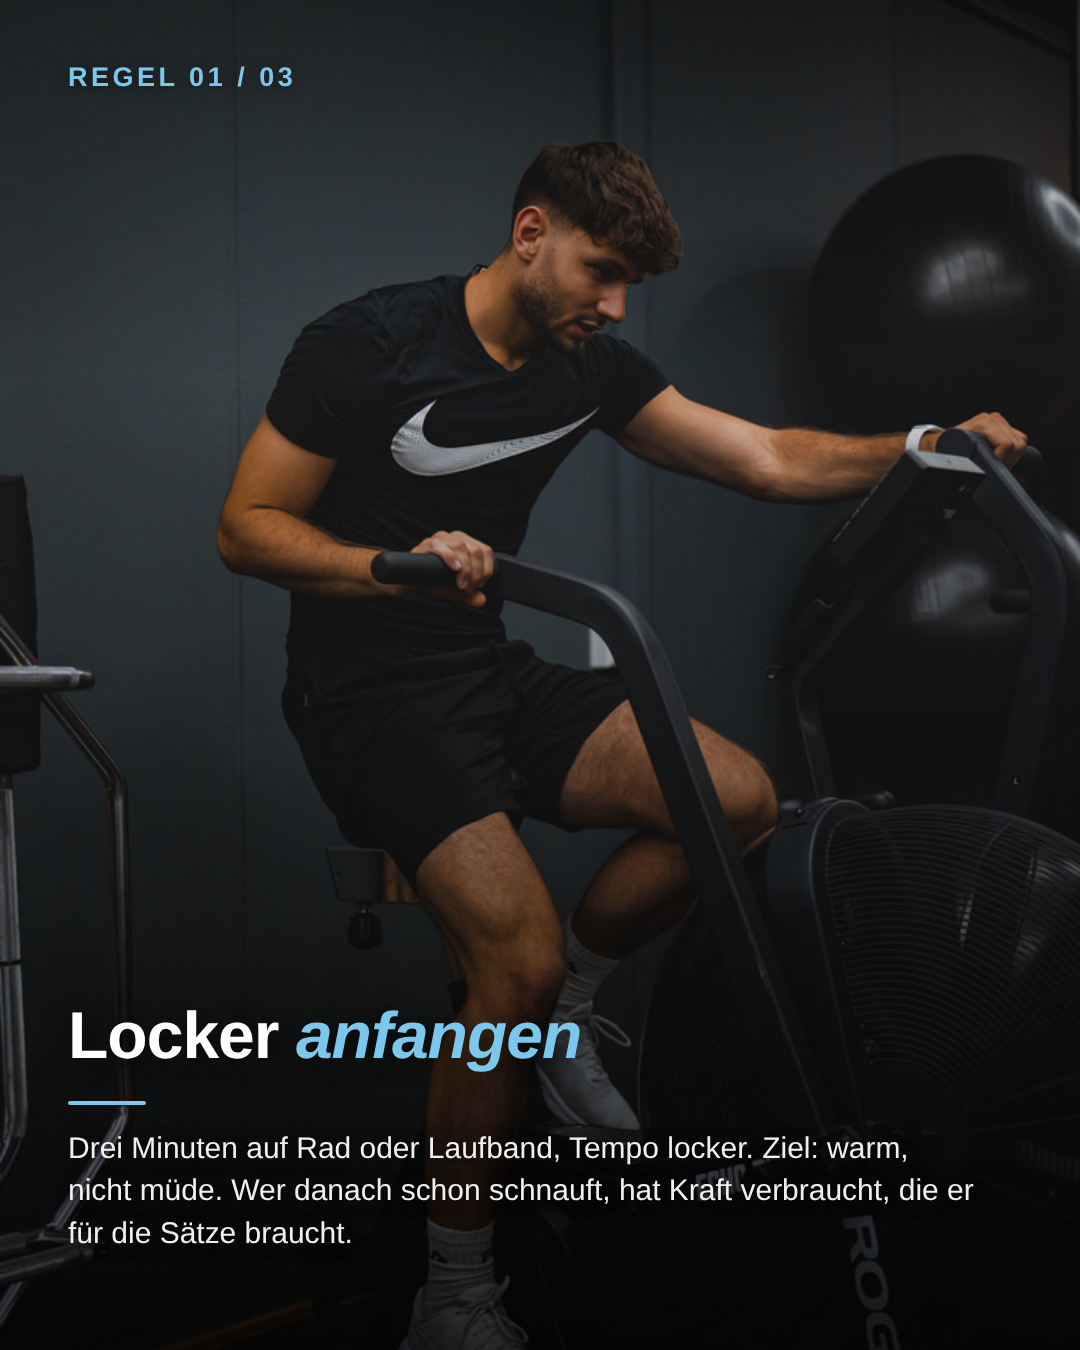
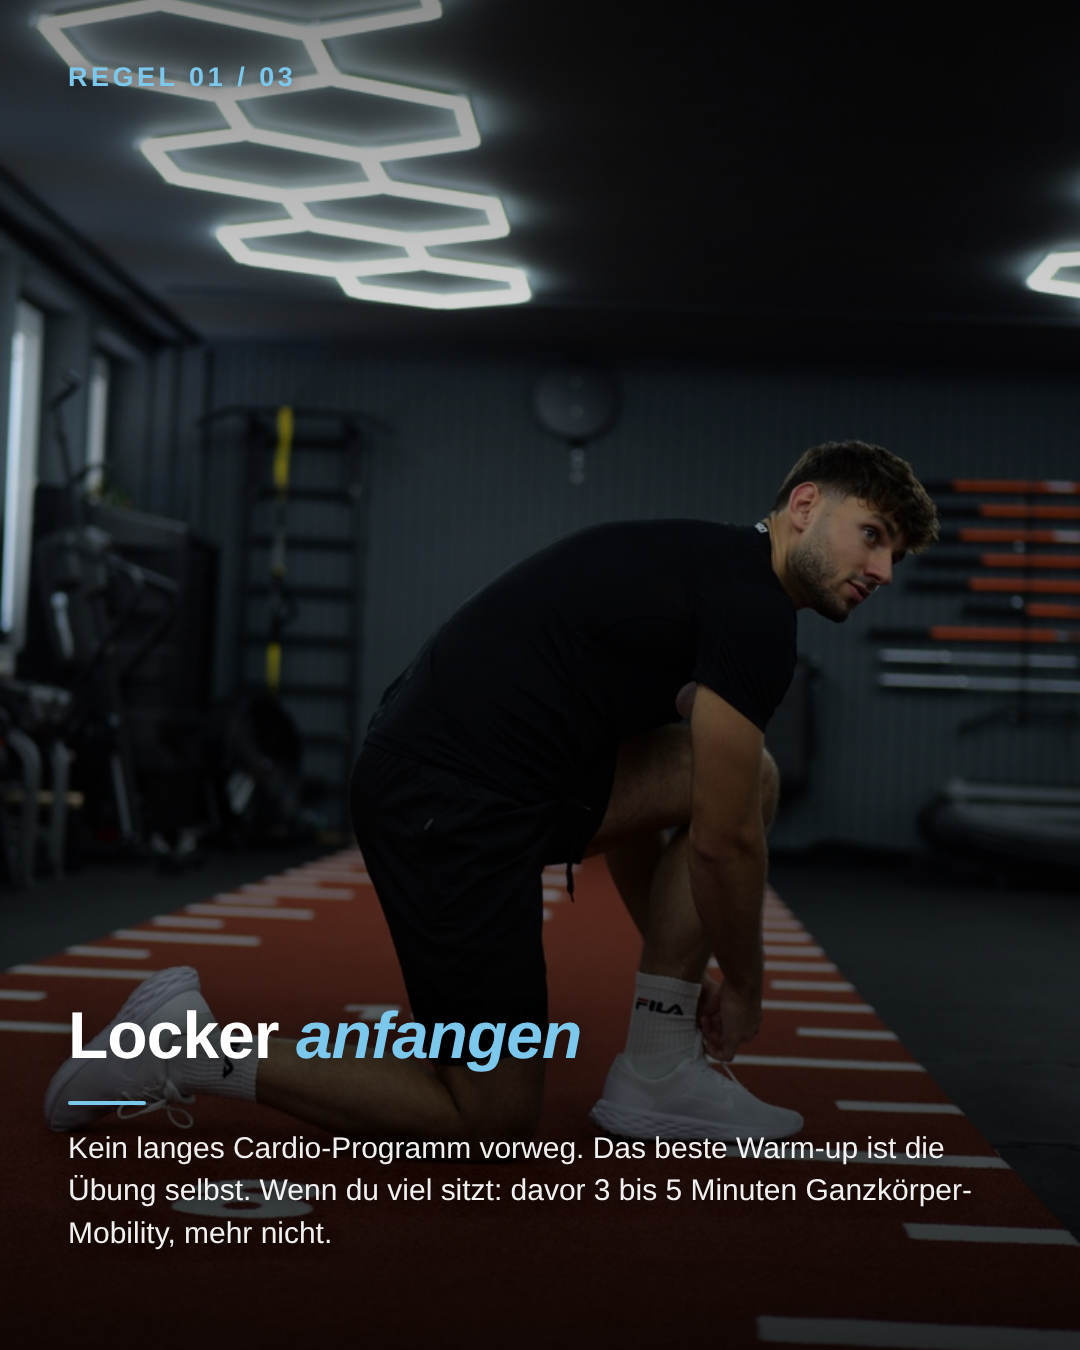
KW 46 Post 1, Slide 2: Warm-up auf Aarons Ansatz umgestellt
Der Slide empfahl 3 Minuten locker auf Rad oder Laufband. Das ist nicht
Aarons Vorgehen: Er sagt, das beste Warm-up ist die Uebung selbst, und
Ganzkoerper-Mobility nur optional, wenn jemand viel sitzt.

Neuer Text, bewusst kurz gehalten:
  "Kein langes Cardio-Programm vorweg. Das beste Warm-up ist die Uebung
   selbst. Wenn du viel sitzt: davor 3 bis 5 Minuten Ganzkoerper-Mobility,
   mehr nicht."

Das Foto zeigte Aaron auf dem Rad und haette dem Text widersprochen. Neu:
kniend auf der Bahn, kurz vor dem Start.

Claude-Session: https://claude.ai/code/session_01HQCAC1gXM5ymEH3L17w63v

diff --git a/posts/2026-W46/post-1.md b/posts/2026-W46/post-1.md
@@ -18,14 +18,14 @@ Neues Thema (nicht in den letzten 8 Wochen). Trifft den Zeit-Schmerz aus einer a
 | # | Zähler | Headline | Foto |
 |---|---|---|---|
 | 1 | `1/4` | Aufwärmen: so startest du in *5 Minuten* ohne Zeitverlust. | Aaron bindet Schuh auf der Bahn (B1B63913…) |
-| 2 | `REGEL 01 / 03` | Locker *anfangen* | Aaron auf dem Rad (70BA48D8…) |
+| 2 | `REGEL 01 / 03` | Locker *anfangen* | Aaron kniend auf dem Kunstrasen, bindet den Schuh (46B6A8FC…) |
 | 3 | `REGEL 02 / 03` | Erst *leicht*, dann schwer | Aaron an der Langhantel (EC5861F7…) |
 | 4 | `REGEL 03 / 03` | Die Uhr *läuft* mit | Fuß hoch neben der Gerätebank (53943123…) |
 
 **Foto-Begründungen (Foto zeigt / Slide spricht):**
 
 1. Cover — Aaron beginnt die Einheit, Schuhe binden; Slide spricht vom Start.
-2. Locker anfangen — Aaron auf dem Rad; Slide nennt Rad/Laufband.
+2. Locker anfangen — Aaron kniend auf der Bahn, kurz vor dem Start. Der Slide sagt jetzt, dass das beste Warm-up die Übung selbst ist; ein Rad-Foto hätte dem widersprochen. (`46B6A8FC-D835-4CB4-8F79-31F3F906CD3E_1_105_c.jpeg`)
 3. Erst leicht — Aaron an der Langhantel; Slide spricht vom leichten Satz vor dem Arbeitsgewicht.
 4. Uhr läuft mit — Gerätebank, Fuß liegt entspannt (Satzpause); Passung nur mittelmäßig.
 
@@ -33,7 +33,7 @@ Alle Fotos stammen aus W37 (älter als 8 Wochen), keine gesperrten Motive, Train
 
 ## Offene Punkte
 
-- Inhaltlich Coaching-Haltung ohne Studienzahlen: "3 Minuten locker", "leichter Satz vor Arbeitsgewicht" — bitte prüfen, ob das zu deinem Vorgehen passt.
+- Slide 2 am 02.11. auf Aarons Ansatz umgestellt: das beste Warm-up ist die Übung selbst, Ganzkörper-Mobility nur optional für Vielsitzer.
 - Slide 4: Foto passt nur halb (Pause statt Uhr).
 - Cover und Slide 4 haben dasselbe Studio-Setting wie W44, andere Bilder.
 

diff --git a/FERTIG-ZUM-HOCHLADEN/2026-W46/REVIEW.md b/FERTIG-ZUM-HOCHLADEN/2026-W46/REVIEW.md
@@ -7,12 +7,12 @@
 Nur **zwei Posts**: Das einzige offene Backlog-Thema (Januar-Vorsätze) ist dieselbe Kategorie wie die Feiertage aus KW 45; der Pool gibt für einen dritten Post keine passenden freien Motive her.
 
 ## Du musst prüfen
-- Post 1: Passen "3 Minuten locker auf Rad/Laufband" und "leichter Satz vor Arbeitsgewicht" zu deinem Vorgehen? Slide 4: Foto nur halb passend.
+- Post 1, Slide 2 am 02.11. korrigiert: "3 Minuten locker auf Rad/Laufband" war nicht Aarons Ansatz. Neu: das beste Warm-up ist die Übung selbst, 3 bis 5 Minuten Ganzkörper-Mobility nur optional, wenn man viel sitzt. Foto von Aaron auf dem Rad ist dadurch raus (hätte dem Text widersprochen), neu: kniend auf der Bahn. Slide 4: Foto nur halb passend.
 - Post 2, Slide 3: **ohne Foto** (grauer Verlauf). Fehlt: Einkaufsliste auf dem Handy oder Küchenarbeitsplatte mit Eiern/Gemüse/Reis. Foto ergänzen oder Slide weglassen.
 - Post 2, Cover: Camping-Luftbett und Skyr-Marke im Wagen sichtbar.
 
 ## Verwendete Fotos
-Post 1: B1B63913…, 70BA48D8…, EC5861F7…, 53943123… (alle `_1_105_c.jpeg`)
+Post 1: B1B63913…, 46B6A8FC…, EC5861F7…, 53943123… (alle `_1_105_c.jpeg`)
 Post 2: CE727A64…, DD106EE6… (`_1_105_c.jpeg`)
 
 ## Ehrlich

diff --git a/posts/2026-W46/_REVIEW.md b/posts/2026-W46/_REVIEW.md
@@ -7,12 +7,12 @@
 Nur **zwei Posts**: Das einzige offene Backlog-Thema (Januar-Vorsätze) ist dieselbe Kategorie wie die Feiertage aus KW 45; der Pool gibt für einen dritten Post keine passenden freien Motive her.
 
 ## Du musst prüfen
-- Post 1: Passen "3 Minuten locker auf Rad/Laufband" und "leichter Satz vor Arbeitsgewicht" zu deinem Vorgehen? Slide 4: Foto nur halb passend.
+- Post 1, Slide 2 am 02.11. korrigiert: "3 Minuten locker auf Rad/Laufband" war nicht Aarons Ansatz. Neu: das beste Warm-up ist die Übung selbst, 3 bis 5 Minuten Ganzkörper-Mobility nur optional, wenn man viel sitzt. Foto von Aaron auf dem Rad ist dadurch raus (hätte dem Text widersprochen), neu: kniend auf der Bahn. Slide 4: Foto nur halb passend.
 - Post 2, Slide 3: **ohne Foto** (grauer Verlauf). Fehlt: Einkaufsliste auf dem Handy oder Küchenarbeitsplatte mit Eiern/Gemüse/Reis. Foto ergänzen oder Slide weglassen.
 - Post 2, Cover: Camping-Luftbett und Skyr-Marke im Wagen sichtbar.
 
 ## Verwendete Fotos
-Post 1: B1B63913…, 70BA48D8…, EC5861F7…, 53943123… (alle `_1_105_c.jpeg`)
+Post 1: B1B63913…, 46B6A8FC…, EC5861F7…, 53943123… (alle `_1_105_c.jpeg`)
 Post 2: CE727A64…, DD106EE6… (`_1_105_c.jpeg`)
 
 ## Ehrlich

diff --git a/config/foto-historie.md b/config/foto-historie.md
@@ -188,3 +188,4 @@ Pool war leer; nur W35-Bilder (älter als 8 Wochen) waren frei.
 | 2026-W46 | 2 Regel 01 | DD106EE6-47E6-43DE-8240-197AB42A3258_1_105_c.jpeg |
 | 2026-W46 | IMG_8344.jpeg | P2 Regel 02 (drei Anker), nachgetragen 02.11. |
 | 2026-W45 | spiegel-pullover.jpeg | P1 Regel 04 (Termine eintragen), ersetzt Stock am 02.11. |
+| 2026-W46 | 46B6A8FC-D835-4CB4-8F79-31F3F906CD3E_1_105_c.jpeg | P1 Regel 01 (locker anfangen), ersetzt Rad-Foto am 02.11. |
